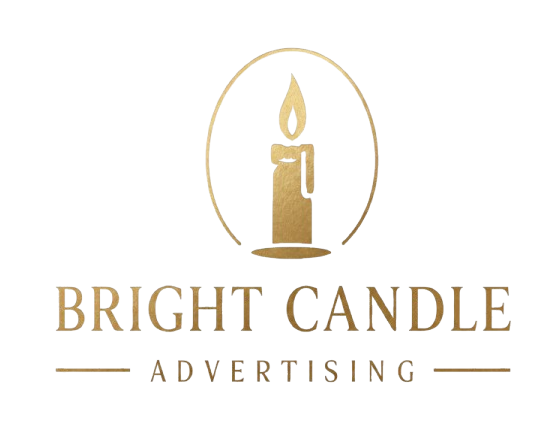
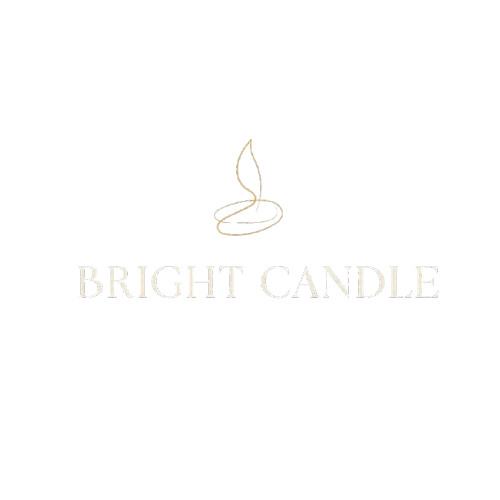
Add files via upload

diff --git a/index.html b/index.html
@@ -491,7 +491,7 @@ html[data-lang="ar"] .mobile-menu a{font-family:var(--arabic)}
         <span class="eyebrow" data-en="About Us" data-ar="من نحن">About Us</span>
         <h2 class="display" style="font-size:clamp(2rem,4vw,3rem);margin:18px 0 26px;color:var(--cream)"
             data-en="Built on the power of presence." data-ar="مبنيّون على قوّة الحضور.">Built on the power of presence.</h2>
-        <p data-en="Founded in the heart of Dubai, Bright Candle Advertising is an out-of-home advertising agency built on the power of presence. Together with our trusted partners, we command some of the most strategic outdoor advertising spaces across the UAE — from bustling city streets and major highways to high-Prime locations that define the urban landscape."
+        <p data-en="Founded in the heart of Dubai, Bright Candle Advertising is an out-of-home advertising agency built on the power of presence. Together with our trusted partners, we command some of the most strategic outdoor advertising spaces across the UAE — from bustling city streets and major highways to high-footfall locations that define the urban landscape."
            data-ar="تأسّست في قلب دبي، وبرايت كاندل للإعلان وكالة إعلانات خارجية مبنيّة على قوّة الحضور. ومع شركائنا الموثوقين، نمتلك بعضًا من أكثر المساحات الإعلانية الخارجية استراتيجيةً في الإمارات — من شوارع المدينة المزدحمة والطرق السريعة الكبرى إلى المواقع عالية الكثافة التي تُعرّف المشهد الحضري.">Founded in the heart of Dubai, Bright Candle Advertising is an out-of-home advertising agency built on the power of presence. Together with our trusted partners, we command some of the most strategic outdoor advertising spaces across the UAE — from bustling city streets and major highways to high-footfall locations that define the urban landscape.</p>
         <p data-en="We and our partners bring together creative excellence, market intelligence, and an extensive network of outdoor media assets to craft campaigns that do not just capture attention — they leave a lasting impression on everyone who passes by."
            data-ar="نجمع نحن وشركاؤنا بين التميّز الإبداعي وذكاء السوق وشبكة واسعة من أصول الإعلام الخارجي لصياغة حملات لا تكتفي بجذب الانتباه — بل تترك انطباعًا لا يُنسى لدى كل من يمرّ بها.">We and our partners bring together creative excellence, market intelligence, and an extensive network of outdoor media assets to craft campaigns that do not just capture attention — they leave a lasting impression on everyone who passes by.</p>
@@ -506,7 +506,7 @@ html[data-lang="ar"] .mobile-menu a{font-family:var(--arabic)}
     <div class="stats">
       <div class="stat reveal"><b data-en="Dubai" data-ar="دبي">Dubai</b><span data-en="Founded in the heart of the UAE" data-ar="تأسّست في قلب الإمارات">Founded in the heart of the UAE</span></div>
       <div class="stat reveal"><b data-en="UAE-Wide" data-ar="كامل الإمارات">UAE-Wide</b><span data-en="Strategic outdoor media network" data-ar="شبكة إعلام خارجي استراتيجية">Strategic outdoor media network</span></div>
-      <div class="stat reveal"><b data-en="Prime" data-ar="كثافة عالية">Prime</b><span data-en="Prime, attention-commanding sites" data-ar="مواقع متميّزة تأسر الانتباه">Prime, attention-commanding sites</span></div>
+      <div class="stat reveal"><b data-en="High-Footfall" data-ar="كثافة عالية">High-Footfall</b><span data-en="Prime, attention-commanding sites" data-ar="مواقع متميّزة تأسر الانتباه">Prime, attention-commanding sites</span></div>
       <div class="stat reveal"><b data-en="Lasting" data-ar="أثر باقٍ">Lasting</b><span data-en="Impressions that people remember" data-ar="انطباعات يتذكّرها الناس">Impressions that people remember</span></div>
     </div>
   </div>
@@ -653,7 +653,7 @@ html[data-lang="ar"] .mobile-menu a{font-family:var(--arabic)}
           <span class="ci"><svg viewBox="0 0 24 24"><path d="M12 21s-7-5.2-7-11a7 7 0 0 1 14 0c0 5.8-7 11-7 11z"/><circle cx="12" cy="10" r="2.4"/></svg></span>
           <div>
             <div class="lbl" data-en="Representative" data-ar="ممثّل الشركة">Representative</div>
-            <div class="val" data-en="Ms. Amal Ali Bin Masoud" data-ar="السيدة أمل علي بن مسعود">Ms. Amal Ali Bin Masoud</div>
+            <div class="val" data-en="Ms. Amal Ali Bin Masood" data-ar="السيدة أمل علي بن مسعود">Ms. Amal Ali Bin Masood</div>
           </div>
         </div>
         <div class="cline">